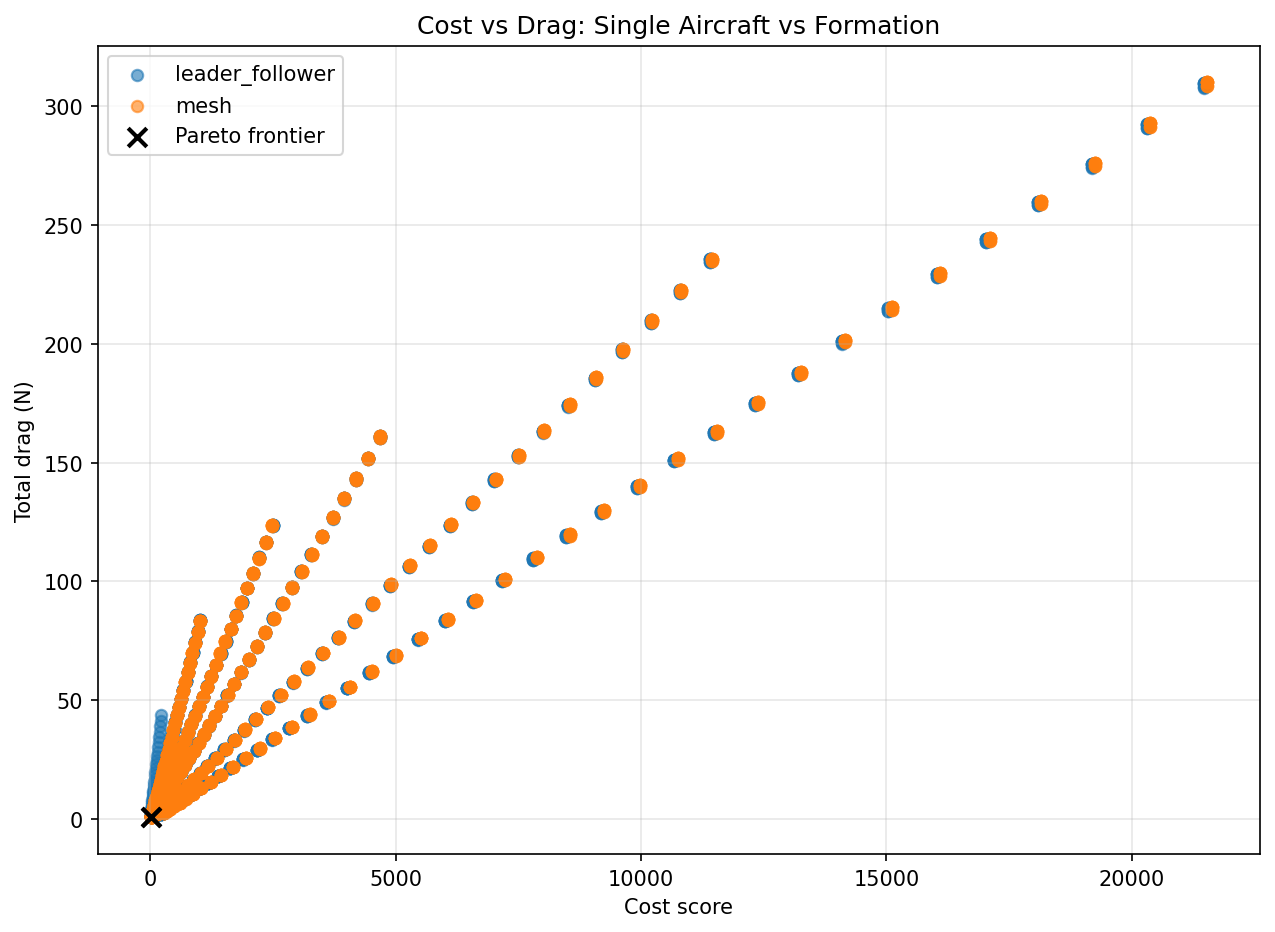
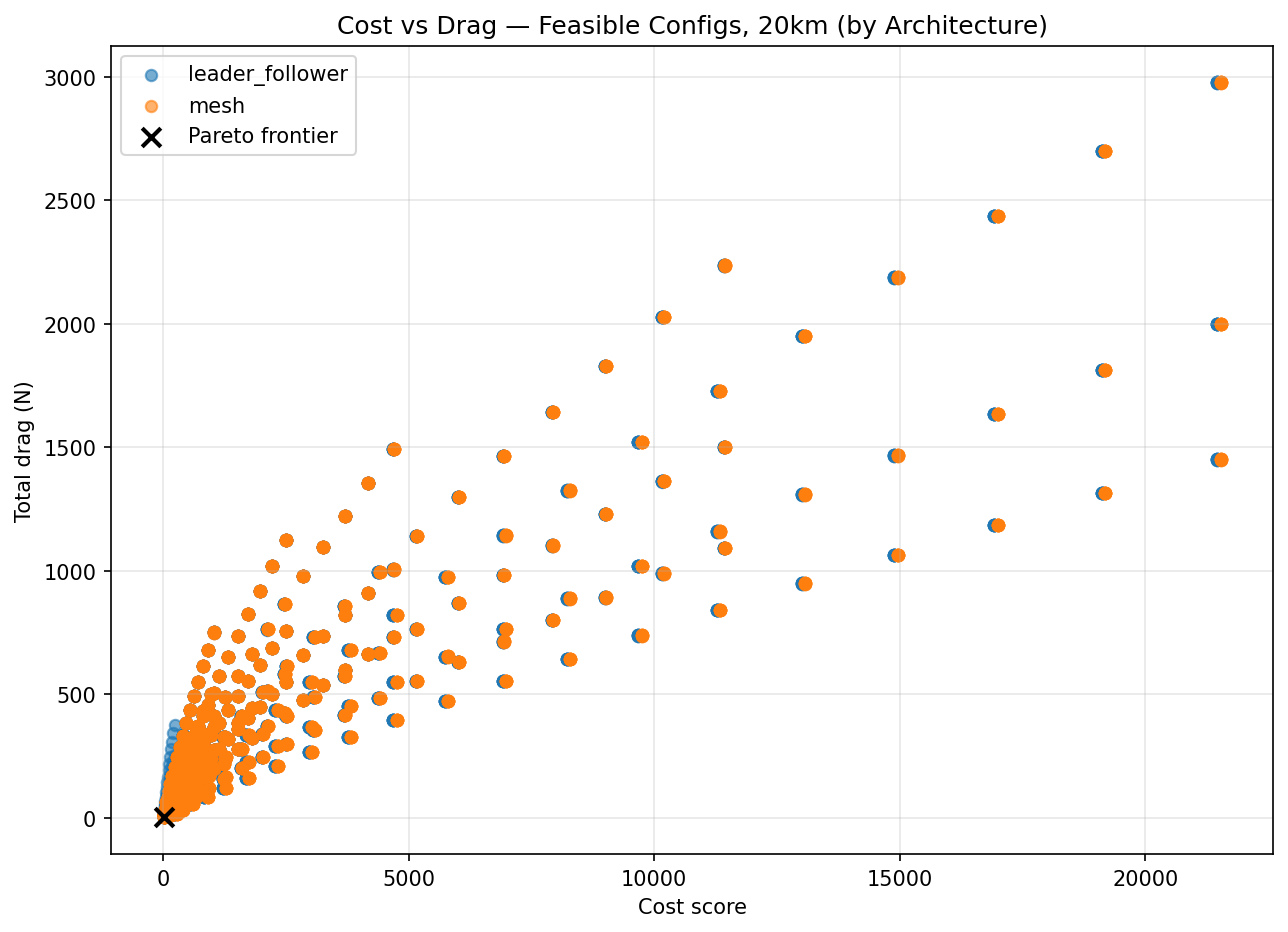
feat: update sweep script with altitude, AR, energy, payload
- Sweep across 12/16/20km altitudes using mission_at_altitude()
- Include AR sweep (12, 18, 25) via sweep_configs aspect_ratios param
- Add surveillance payload option alongside no_payload sweep
- Filter/flag configs where energy_closes is False
- Print energy balance summary (feasible count, surplus range, battery range)
- Add plots: feasible vs infeasible (green/red), energy closure by altitude, energy closure by AR

diff --git a/scripts/sweep_single_vs_formation.py b/scripts/sweep_single_vs_formation.py
@@ -2,6 +2,9 @@
 """
 Sweep single aircraft vs formation configurations and plot results.
 
+Now includes altitude sweep, aspect ratio sweep, surveillance payload option,
+energy balance feasibility filtering, and a feasible/infeasible config plot.
+
 Usage:
     python scripts/sweep_single_vs_formation.py
     python scripts/sweep_single_vs_formation.py --save
@@ -17,12 +20,48 @@ from wingz.evaluation.sweep import (
     AircraftConfig, PositionStrategy, evaluate_config, sweep_configs,
 )
 from wingz.evaluation.pareto import pareto_filter
-from wingz.mission.profiles import hale_20km, lower_altitude_le
+from wingz.mission.atmosphere import mission_at_altitude
+from wingz.mission.payload import surveillance_payload, no_payload
 from wingz.control.architectures import FormationArchitecture
 from wingz.aerodynamics.formation_aero import FormationGeometry
 from wingz.visualization.plots import (
     plot_cost_vs_drag, plot_structural_scaling, plot_formation_geometry, plot_energy_balance_timeline,
 )
+
+ALTITUDES_M = [12000, 16000, 20000]
+ASPECT_RATIOS = [12, 18, 25]
+
+
+def run_sweep(mission, payload):
+    configs = sweep_configs(
+        spans=np.linspace(8, 80, 20).tolist(),
+        Ns=[1, 2, 3, 4, 6, 8],
+        architectures=[FormationArchitecture.LEADER_FOLLOWER, FormationArchitecture.MESH],
+        position_strategies=[PositionStrategy.UNIFORM, PositionStrategy.HEAVY_WAKE, PositionStrategy.HEAVY_FRONT],
+        geometries=[FormationGeometry.V],
+        lateral_overlap_ratios=[0.05, 0.1, 0.15],
+        aspect_ratios=ASPECT_RATIOS,
+        payloads=[payload],
+    )
+    results = [evaluate_config(c, mission) for c in configs]
+    return pd.DataFrame(results)
+
+
+def print_energy_summary(df, label=""):
+    n_total = len(df)
+    n_feasible = df["energy_closes"].sum()
+    n_infeasible = n_total - n_feasible
+    print(f"\n{'=' * 60}")
+    if label:
+        print(f"  {label}")
+    print(f"  Total configs: {n_total}  |  Feasible: {n_feasible}  |  Infeasible: {n_infeasible}")
+    feasible = df[df["energy_closes"]]
+    if len(feasible) > 0:
+        print(f"  Feasible energy surplus range: "
+              f"{feasible['energy_surplus_Wh'].min():.0f} – {feasible['energy_surplus_Wh'].max():.0f} Wh")
+        print(f"  Feasible battery mass range: "
+              f"{feasible['battery_mass_kg'].min():.1f} – {feasible['battery_mass_kg'].max():.1f} kg")
+    print(f"{'=' * 60}")
 
 
 def main():
@@ -31,35 +70,114 @@ def main():
     if save:
         matplotlib.use("Agg")
 
-    mission = hale_20km()
+    # ------------------------------------------------------------------ #
+    # 1. Multi-altitude sweep (no payload)                                #
+    # ------------------------------------------------------------------ #
+    print("Running altitude sweep (no payload)...")
+    alt_dfs = {}
+    for alt in ALTITUDES_M:
+        mission = mission_at_altitude(alt)
+        print(f"  Altitude {alt/1000:.0f}km — evaluating configs...")
+        df = run_sweep(mission, no_payload())
+        alt_dfs[alt] = df
+        print_energy_summary(df, label=f"Altitude {alt/1000:.0f}km, no payload")
 
-    configs = sweep_configs(
-        spans=np.linspace(8, 80, 40).tolist(),
-        Ns=[1, 2, 3, 4, 6, 8],
-        architectures=[FormationArchitecture.LEADER_FOLLOWER, FormationArchitecture.MESH],
-        position_strategies=[PositionStrategy.UNIFORM, PositionStrategy.HEAVY_WAKE, PositionStrategy.HEAVY_FRONT],
-        geometries=[FormationGeometry.V],
-        lateral_overlap_ratios=[0.05, 0.1, 0.15],
-    )
+    # ------------------------------------------------------------------ #
+    # 2. Surveillance payload sweep at 20km                               #
+    # ------------------------------------------------------------------ #
+    print("\nRunning surveillance payload sweep at 20km...")
+    mission_20km = mission_at_altitude(20000)
+    df_surveillance = run_sweep(mission_20km, surveillance_payload())
+    print_energy_summary(df_surveillance, label="20km, surveillance payload")
 
-    print(f"Evaluating {len(configs)} configurations...")
-    results = [evaluate_config(c, mission) for c in configs]
-    df = pd.DataFrame(results)
+    # ------------------------------------------------------------------ #
+    # 3. Pareto analysis on feasible configs at 20km (no payload)         #
+    # ------------------------------------------------------------------ #
+    df_20km = alt_dfs[20000]
+    df_feasible = df_20km[df_20km["energy_closes"]].copy()
+    df_infeasible = df_20km[~df_20km["energy_closes"]].copy()
 
-    pareto_rows = pareto_filter(df.to_dict("records"))
-    pareto_df = pd.DataFrame(pareto_rows)
+    print(f"\n20km no-payload: {len(df_feasible)} feasible, {len(df_infeasible)} infeasible")
 
-    print(f"\nResults: {len(df)} configs, {len(pareto_df)} on Pareto frontier")
-    print(f"\nPareto frontier summary:")
+    pareto_rows = pareto_filter(df_feasible.to_dict("records")) if len(df_feasible) > 0 else []
+    pareto_df = pd.DataFrame(pareto_rows) if pareto_rows else pd.DataFrame()
+
+    print(f"\nPareto frontier (feasible configs only): {len(pareto_df)} configs")
     if len(pareto_df) > 0:
-        print(pareto_df[["N", "span_each_m", "architecture", "position_strategy",
-                          "total_drag_N", "cost_score", "total_mass_kg"]].to_string())
+        display_cols = ["N", "span_each_m", "aspect_ratio", "architecture", "position_strategy",
+                        "altitude_m", "total_drag_N", "cost_score", "total_mass_kg",
+                        "energy_surplus_Wh", "battery_mass_kg"]
+        print(pareto_df[display_cols].to_string())
 
-    fig1, ax1 = plot_cost_vs_drag(df, pareto_df=pareto_df)
-    fig2, ax2 = plot_cost_vs_drag(df, color_by="position_strategy", pareto_df=pareto_df)
-    ax2.set_title("Cost vs Drag — by Position Strategy")
+    # ------------------------------------------------------------------ #
+    # 4. Plots                                                            #
+    # ------------------------------------------------------------------ #
+    # Plot A: cost vs drag, colored by architecture (Pareto marked)
+    fig1, ax1 = plot_cost_vs_drag(df_feasible, pareto_df=pareto_df if len(pareto_df) > 0 else None)
+    ax1.set_title("Cost vs Drag — Feasible Configs, 20km (by Architecture)")
+
+    # Plot B: cost vs drag, colored by position strategy
+    fig2, ax2 = plot_cost_vs_drag(df_feasible, color_by="position_strategy",
+                                   pareto_df=pareto_df if len(pareto_df) > 0 else None)
+    ax2.set_title("Cost vs Drag — by Position Strategy (feasible only)")
+
+    # Plot C: structural scaling
     fig3, ax3 = plot_structural_scaling()
+
+    # Plot D: formation geometry example
     fig4, ax4 = plot_formation_geometry(N=5, span_m=15.0, lateral_overlap_ratio=0.1, geometry="v")
+
+    # Plot E: feasible vs infeasible configs (colored by energy_closes)
+    fig5, ax5 = plt.subplots(figsize=(10, 7))
+    ax5.scatter(df_infeasible["cost_score"], df_infeasible["total_drag_N"],
+                alpha=0.4, s=25, color="red", label=f"Infeasible ({len(df_infeasible)})")
+    ax5.scatter(df_feasible["cost_score"], df_feasible["total_drag_N"],
+                alpha=0.6, s=25, color="green", label=f"Feasible ({len(df_feasible)})")
+    if len(pareto_df) > 0:
+        ax5.scatter(pareto_df["cost_score"], pareto_df["total_drag_N"],
+                    marker="x", color="black", s=80, linewidths=2,
+                    label="Pareto frontier", zorder=5)
+    ax5.set_xlabel("Cost score")
+    ax5.set_ylabel("Total drag (N)")
+    ax5.set_title("Feasible vs Infeasible Configs — 20km, No Payload")
+    ax5.legend()
+    ax5.grid(True, alpha=0.3)
+
+    # Plot F: energy balance across altitudes (feasible fraction per altitude)
+    fig6, axes6 = plt.subplots(1, 2, figsize=(14, 6))
+    alt_labels = [f"{a//1000}km" for a in ALTITUDES_M]
+    feasible_fractions = [alt_dfs[a]["energy_closes"].mean() for a in ALTITUDES_M]
+    mean_surplus = [alt_dfs[a][alt_dfs[a]["energy_closes"]]["energy_surplus_Wh"].mean()
+                    if alt_dfs[a]["energy_closes"].any() else 0
+                    for a in ALTITUDES_M]
+
+    axes6[0].bar(alt_labels, [f * 100 for f in feasible_fractions], color=["#e74c3c", "#f39c12", "#27ae60"])
+    axes6[0].set_xlabel("Altitude")
+    axes6[0].set_ylabel("Feasible configs (%)")
+    axes6[0].set_title("Energy Closure Rate by Altitude")
+    axes6[0].grid(True, alpha=0.3, axis="y")
+
+    axes6[1].bar(alt_labels, mean_surplus, color=["#e74c3c", "#f39c12", "#27ae60"])
+    axes6[1].set_xlabel("Altitude")
+    axes6[1].set_ylabel("Mean energy surplus (Wh)")
+    axes6[1].set_title("Mean Energy Surplus (Feasible Configs) by Altitude")
+    axes6[1].grid(True, alpha=0.3, axis="y")
+
+    plt.suptitle("Energy Balance by Altitude", fontsize=13)
+    plt.tight_layout()
+
+    # Plot G: AR effect on energy closure
+    fig7, ax7 = plt.subplots(figsize=(10, 6))
+    for ar in ASPECT_RATIOS:
+        subset = df_20km[df_20km["aspect_ratio"].round(1) == float(ar)]
+        if len(subset) == 0:
+            continue
+        feasible_pct = subset["energy_closes"].mean() * 100
+        ax7.bar(str(ar), feasible_pct, label=f"AR={ar}")
+    ax7.set_xlabel("Aspect Ratio")
+    ax7.set_ylabel("Feasible configs (%)")
+    ax7.set_title("Energy Closure Rate by Aspect Ratio — 20km, No Payload")
+    ax7.grid(True, alpha=0.3, axis="y")
 
     if save:
         import os
@@ -68,6 +186,9 @@ def main():
         fig2.savefig("docs/formation_flight/cost_vs_drag_by_strategy.png", dpi=150, bbox_inches="tight")
         fig3.savefig("docs/formation_flight/structural_scaling.png", dpi=150, bbox_inches="tight")
         fig4.savefig("docs/formation_flight/v_formation_geometry.png", dpi=150, bbox_inches="tight")
+        fig5.savefig("docs/formation_flight/feasible_vs_infeasible.png", dpi=150, bbox_inches="tight")
+        fig6.savefig("docs/formation_flight/energy_balance_by_altitude.png", dpi=150, bbox_inches="tight")
+        fig7.savefig("docs/formation_flight/energy_closure_by_ar.png", dpi=150, bbox_inches="tight")
         print("\nFigures saved to docs/formation_flight/")
     else:
         plt.show()